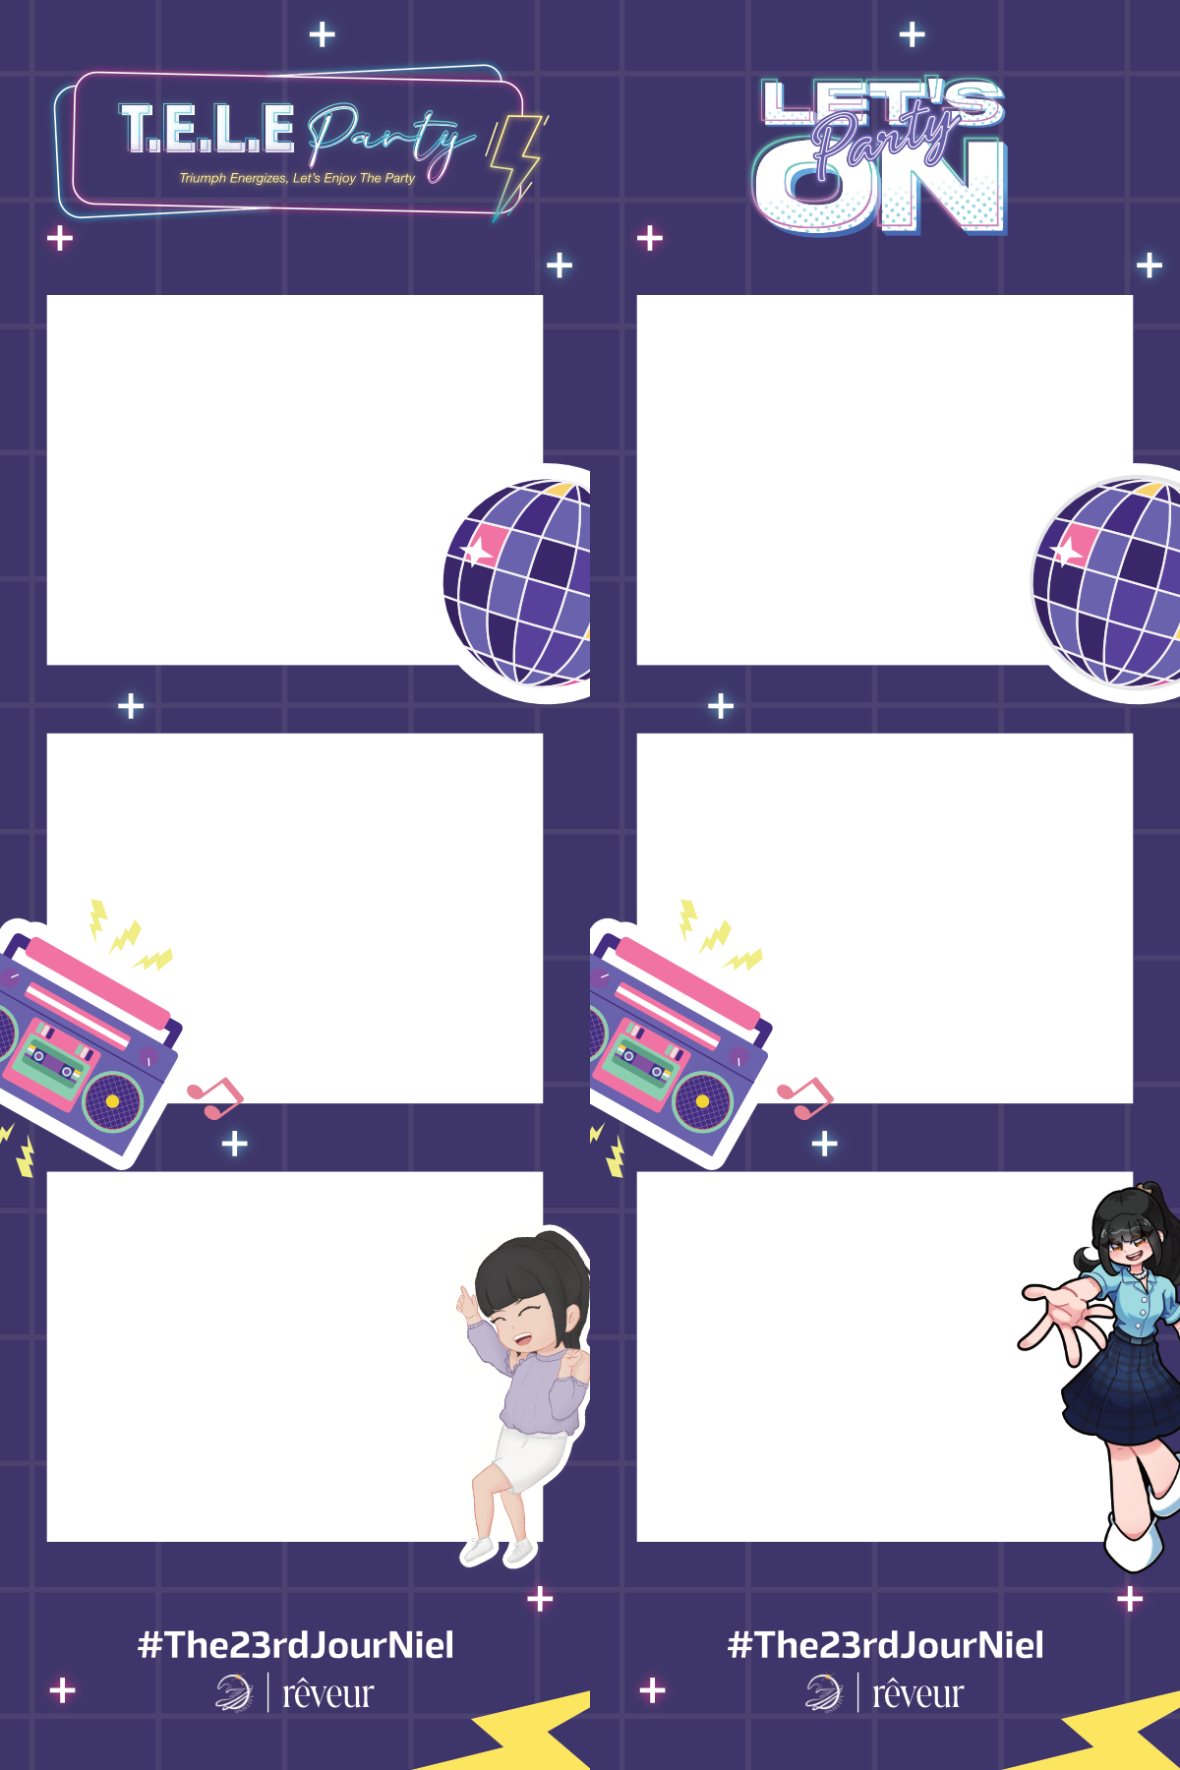
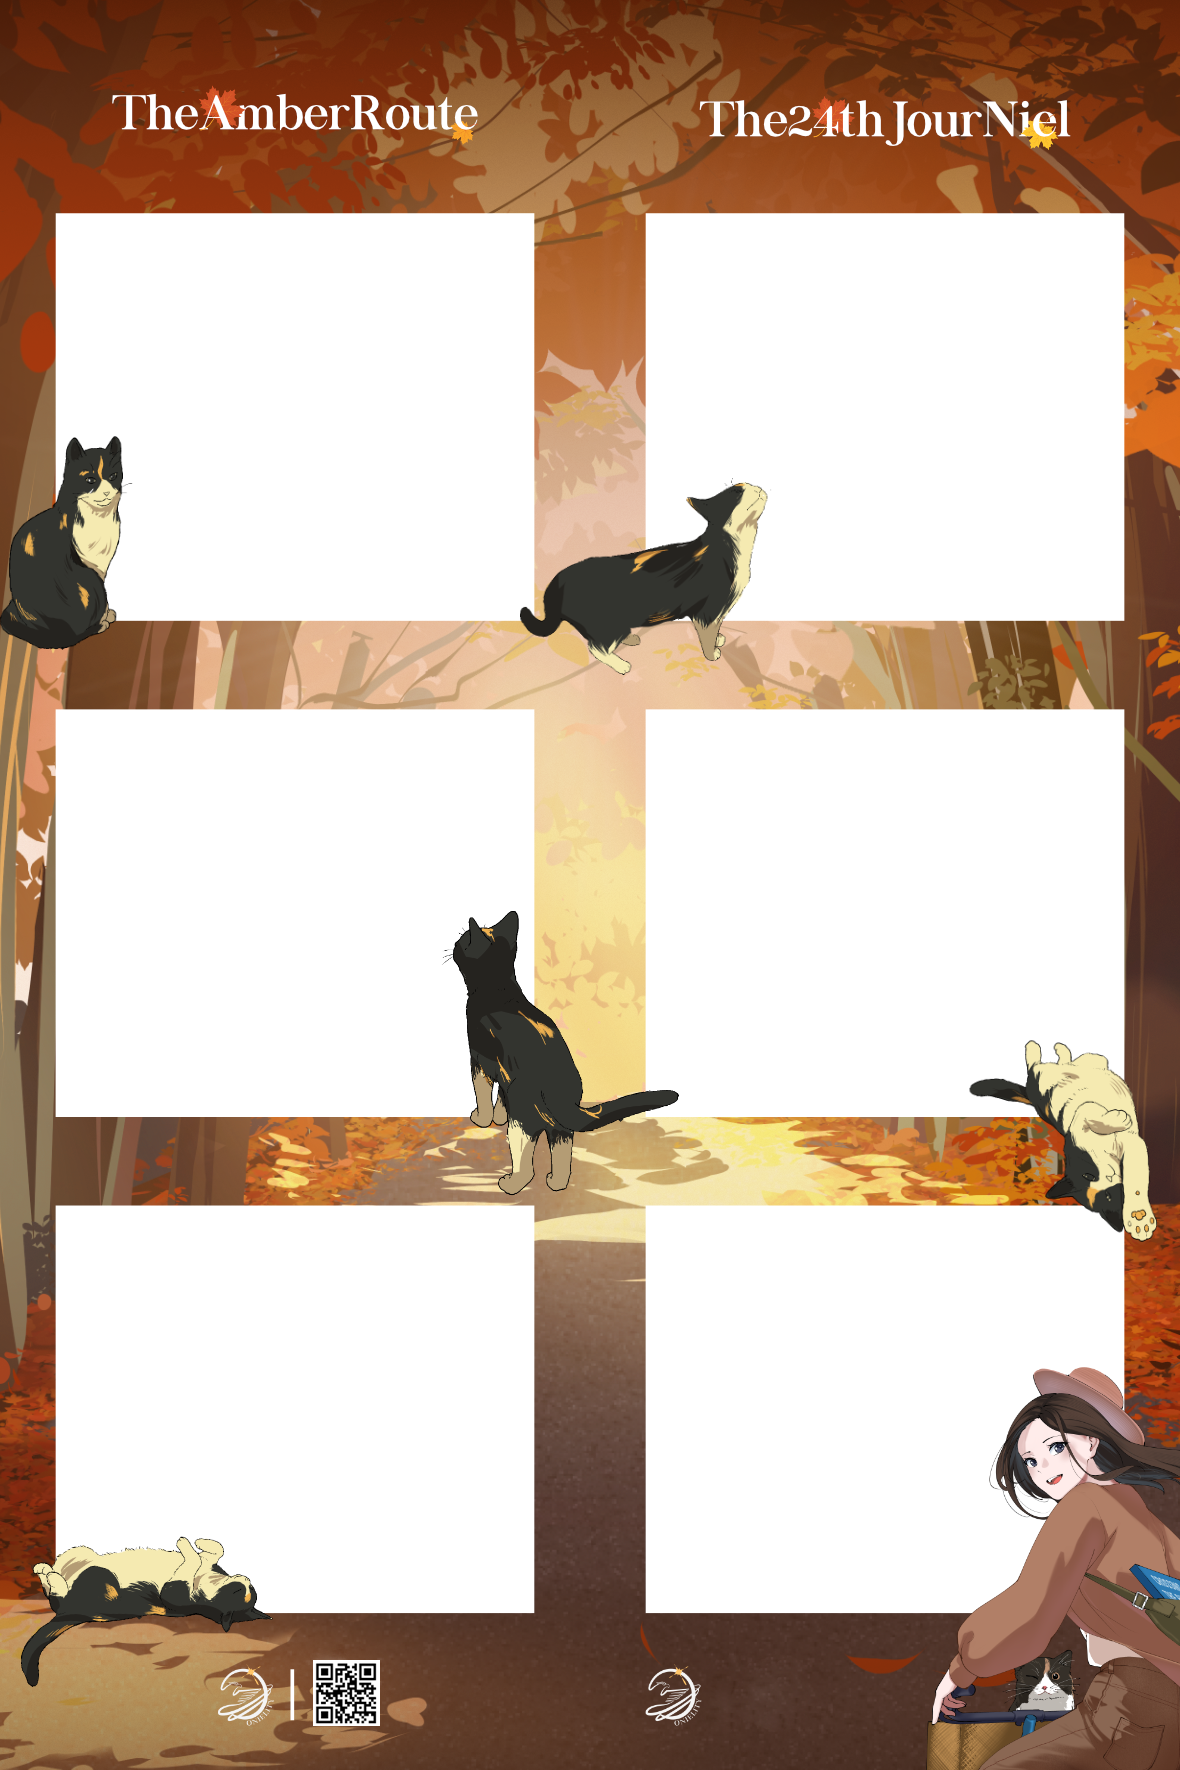
fiksasi 2026

diff --git a/src/App.vue b/src/App.vue
@@ -1,7 +1,7 @@
 <template>
   <div class="max-h-screen relative overflow-auto">
-    <div class="fixed top-0 bottom-0 z-0 bg-contain bg-center min-h-screen mx-auto left-0 right-0"
-      :style="{ backgroundImage: 'url(' + wallpaperUrl + ')', aspectRatio: '16 / 9', height: 'auto' }"></div>
+    <div class="fixed inset-0 z-0 bg-cover bg-no-repeat min-h-screen"
+      :style="{ backgroundImage: 'url(' + wallpaperUrl + ')', backgroundPosition: 'center center' }"></div>
 
     <div v-if="waitingRoomActive" class="relative flex flex-col items-center justify-center min-h-screen p-4">
       <img :src="displayLogo" alt="Logo" class="h-48 max-w-full object-contain mb-4" />
@@ -13,7 +13,7 @@
     <div v-else>
       <div v-if="showWelcomePopup" class="fixed inset-0 flex items-center justify-center z-50 p-4">
         <div class="bg-gray-300 rounded-lg shadow-xl p-6 max-w-sm w-full text-center">
-          <h2 class="text-xl font-bold text-gray-900 mb-4">Informasi Mengenai Photobooth</h2>
+          <h2 class="text-xl font-bold text-gray-900 mb-4">Informasi Mengenai Photobooth #24thJourNiel</h2>
           <p class="text-gray-700 mb-6 text-justify">
             1. Photobooth ini akan mengambil sebanyak 6 foto untuk dua frame. Hasil foto dapat kamu unduh setelah
             selesai.
@@ -23,16 +23,13 @@
             di perangkat
             kamu.
           </p>
-          <p class="text-gray-700 mb-6 text-justify">
-            3. Kami merekomendasikan kamu untuk menggunakan Google Chrome (baik versi mobile ataupun desktop)
-          </p>
           <button @click="dismissWelcomePopup"
             class="bg-black dark:bg-indigo-600 dark:text-white text-black font-bold py-3 px-6 rounded-lg shadow-md transition duration-300 ease-in-out">
             OK
           </button>
         </div>
       </div>
-      <div class="flex flex-col items-center p-4 relative max-w-[600px] mx-auto min-h-screen">
+      <div class="flex flex-col items-center p-4 pb-24 relative max-w-[360px] mx-auto min-h-screen">
         <img :src="logoUrl" alt="Vue Photobooth Logo" class="h-24 max-w-full object-contain" />
 
         <div
@@ -80,9 +77,9 @@
             </button>
           </div>
         </div>
-        <footer class="bottom-0 left-0 right-0 py-6 text-center text-white z-20">
-          <img :src="furllogo" alt="Footer Logo" class="h-16 mx-auto mx-5 object-contain" />
-          <p class="text-xs">&copy; {{ currentYear }}, <a href="https://corsyava.com" target="__blank">Onielity
+        <footer class="fixed bottom-0 left-0 right-0 z-20 py-4 text-center text-white">
+          <img :src="furllogo" alt="Footer Logo" class="h-16 mx-auto object-contain" />
+          <p class="text-xs">&copy; {{ currentYear }}, <a href="https://corsyava.id" target="__blank">Onielity
               Official</a>
           </p>
         </footer>
@@ -94,7 +91,7 @@
 <script setup>
 import { ref, onMounted, onBeforeUnmount, watch, nextTick } from 'vue';
 
-import wallpaper from './assets/background.png';
+import wallpaper from './assets/background.jpeg';
 const wallpaperUrl = ref(wallpaper);
 
 import logo from './assets/logo.png';
@@ -389,8 +386,8 @@ const combinePhotosIntoGrid = async () => {
   const slotDefinitions = [
     // Contoh nilai berdasarkan asumsi 2160x3240 frame dan 6 slot 1080x1080 yang pas
     // Jika frame Anda memiliki margin, Anda harus sesuaikan nilai x, y, width, height ini.
-    { x: 45, y: 260, width: 500, height: 500 },
-    { x: (gridCanvas.width / 2) + 45, y: 260, width: 500, height: 500 },
+    { x: 45, y: 200, width: 500, height: 500 },
+    { x: (gridCanvas.width / 2) + 45, y: 200, width: 500, height: 500 },
     { x: 45, y: 670, width: 500, height: 500 },
     { x: (gridCanvas.width / 2) + 45, y: 670, width: 500, height: 500 },
     { x: 45, y: 1120, width: 500, height: 500 },

diff --git a/index.html b/index.html
@@ -4,7 +4,7 @@
     <meta charset="UTF-8" />
     <link rel="icon" type="image/png" href="src/assets/logo2.png" />
     <meta name="viewport" content="width=device-width, initial-scale=1.0" />
-    <title>LetsPartyOn! Photobooth</title>
+    <title>TheAmberRoute Photobooth</title>
   </head>
   <body>
     <div id="app"></div>
